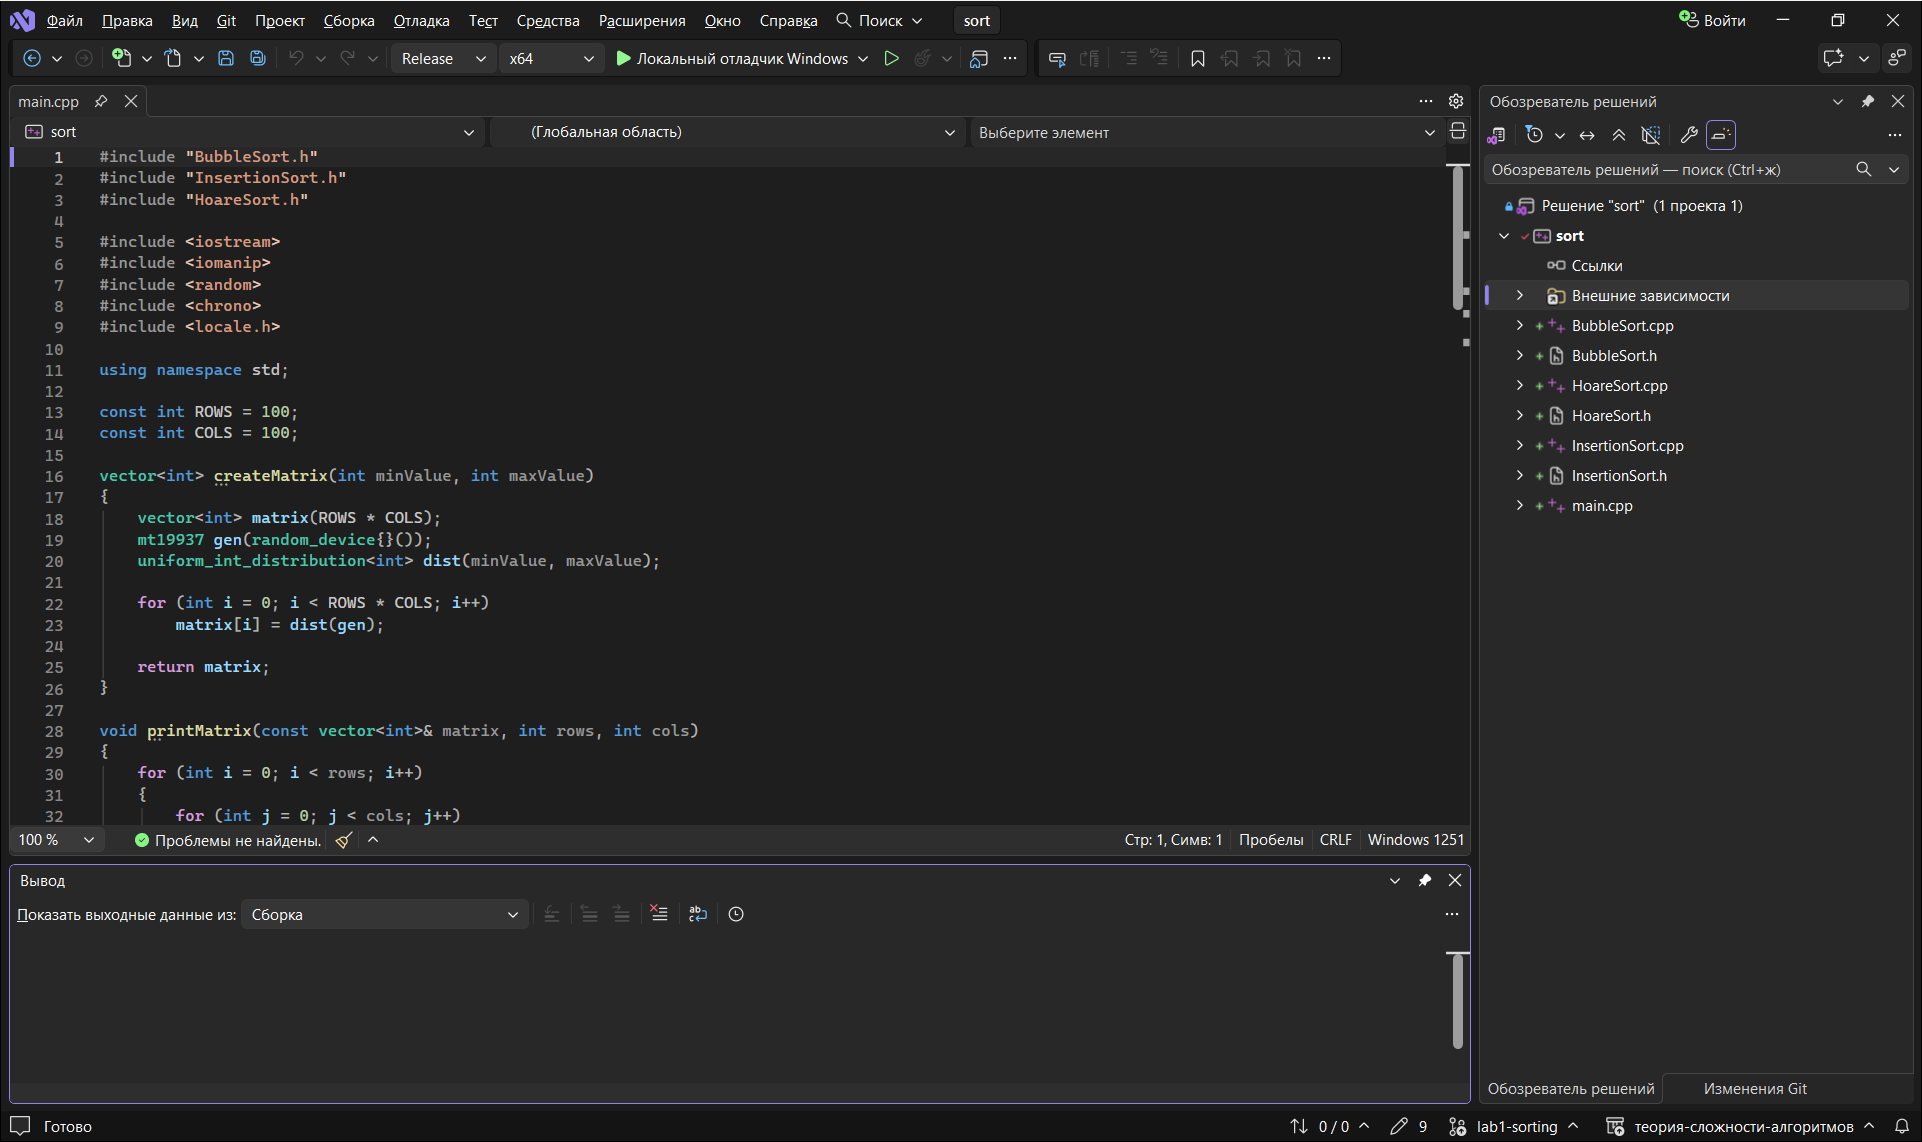
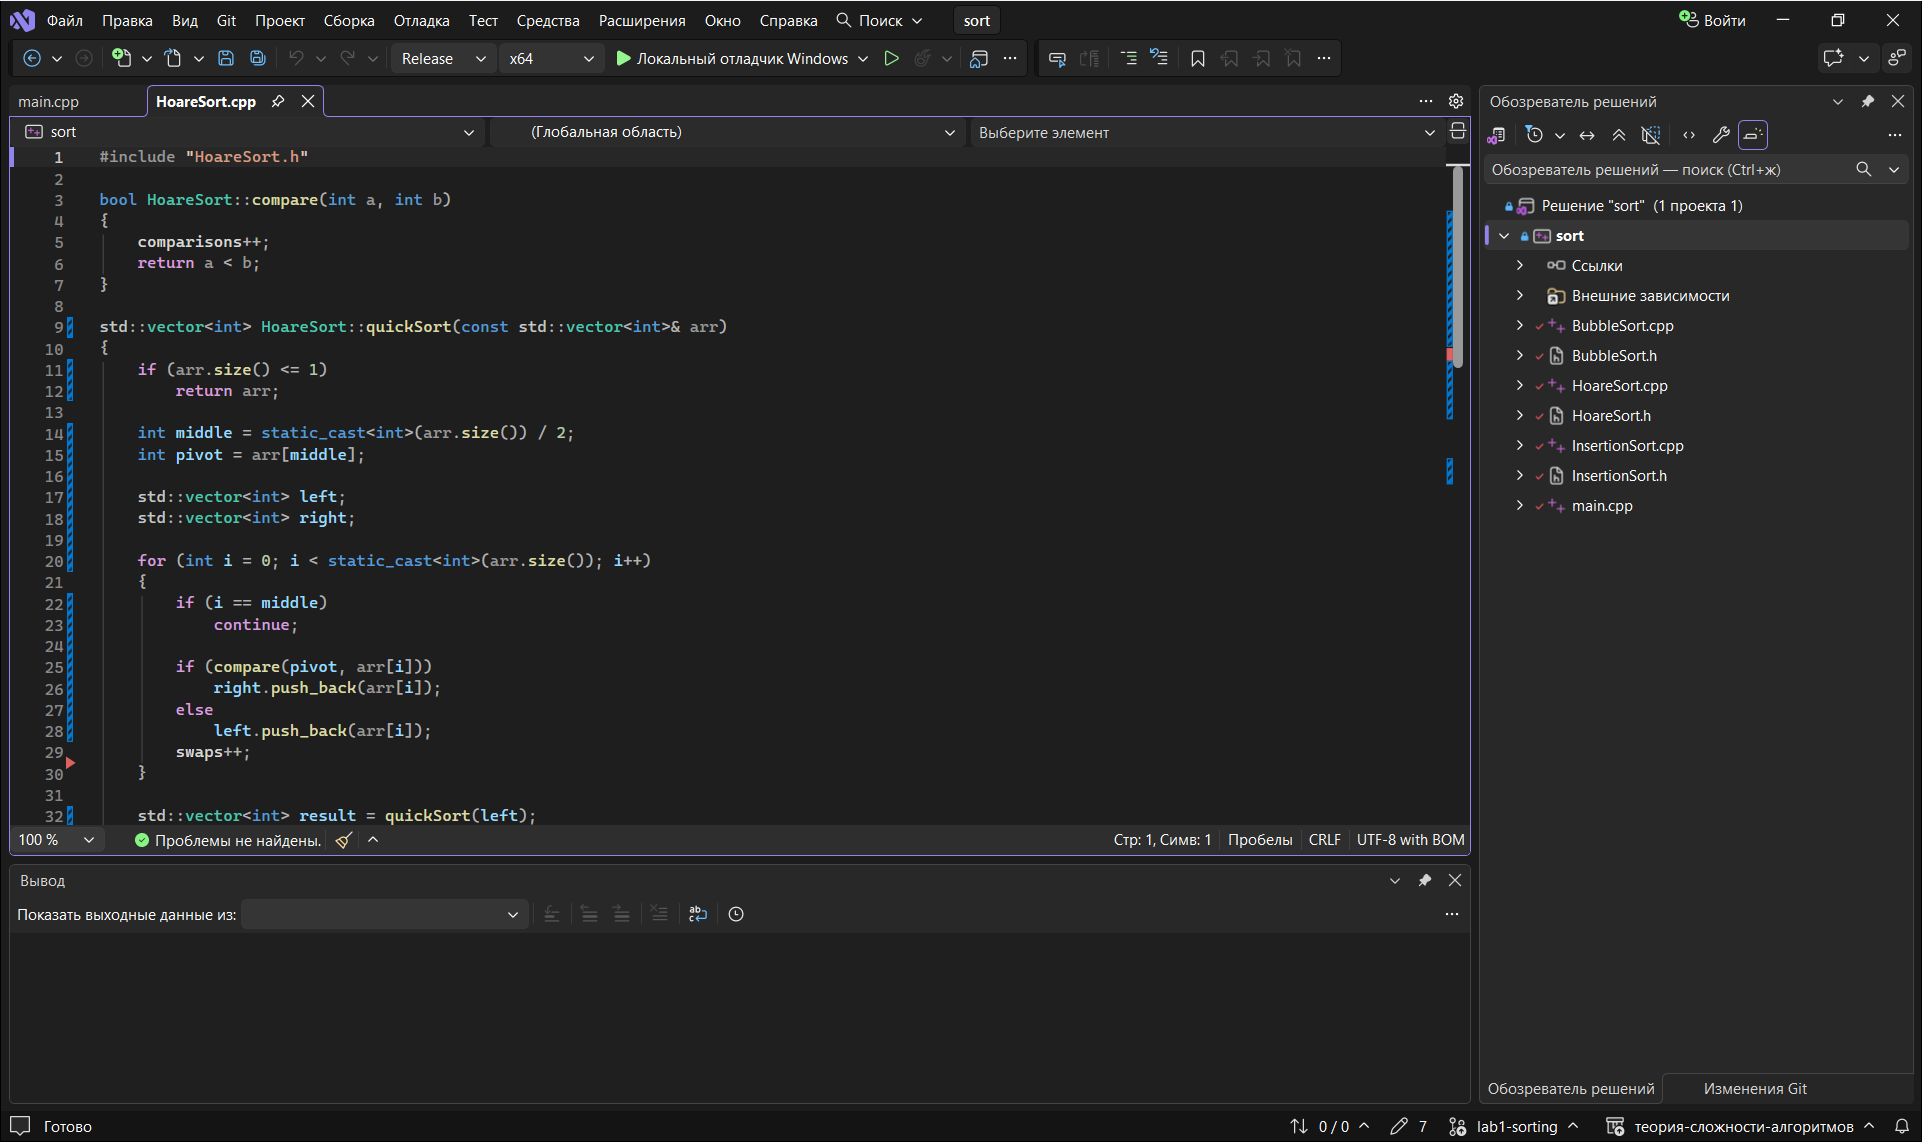
fix hoare and insertion

diff --git a/lab1/HoareSort.cpp b/lab1/HoareSort.cpp
@@ -6,33 +6,37 @@ bool HoareSort::compare(int a, int b)
     return a < b;
 }
 
-void HoareSort::quickSort(std::vector<int>& arr, int left, int right)
+std::vector<int> HoareSort::quickSort(const std::vector<int>& arr)
 {
-    int i = left;
-    int j = right;
-    int pivot = arr[(left + right) / 2];
+    if (arr.size() <= 1)
+        return arr;
 
-    while (i <= j)
+    int middle = static_cast<int>(arr.size()) / 2;
+    int pivot = arr[middle];
+
+    std::vector<int> left;
+    std::vector<int> right;
+
+    for (int i = 0; i < static_cast<int>(arr.size()); i++)
     {
-        while (compare(arr[i], pivot))
-            i++;
-        while (compare(pivot, arr[j]))
-            j--;
-        if (i <= j)
-        {
-            int t = arr[i];
-            arr[i] = arr[j];
-            arr[j] = t;
-            swaps++;
-            i++;
-            j--;
-        }
+        if (i == middle)
+            continue;
+
+        if (compare(pivot, arr[i]))
+            right.push_back(arr[i]);
+        else
+            left.push_back(arr[i]);
+        swaps++;
     }
 
-    if (left < j)
-        quickSort(arr, left, j);
-    if (i < right)
-        quickSort(arr, i, right);
+    std::vector<int> result = quickSort(left);
+    std::vector<int> rightSorted = quickSort(right);
+
+    result.push_back(pivot);
+    for (int i = 0; i < static_cast<int>(rightSorted.size()); i++)
+        result.push_back(rightSorted[i]);
+
+    return result;
 }
 
 std::string HoareSort::getName() const
@@ -40,10 +44,9 @@ std::string HoareSort::getName() const
     return "Хоара";
 }
 
-void HoareSort::sort(std::vector<int>& arr)
+std::vector<int> HoareSort::sort(const std::vector<int>& arr)
 {
-    if (arr.size() > 1)
-        quickSort(arr, 0, static_cast<int>(arr.size()) - 1);
+    return quickSort(arr);
 }
 
 long long HoareSort::getComparisons() const

diff --git a/lab1/InsertionSort.cpp b/lab1/InsertionSort.cpp
@@ -6,26 +6,40 @@ bool InsertionSort::compare(int a, int b)
     return a < b;
 }
 
+int InsertionSort::findPlace(const std::vector<int>& sorted, int value)
+{
+    int low = 0;
+    int high = static_cast<int>(sorted.size()) - 1;
+
+    while (low <= high)
+    {
+        int mid = (low + high) / 2;
+        if (compare(value, sorted[mid]))
+            high = mid - 1;
+        else
+            low = mid + 1;
+    }
+
+    return low;
+}
+
 std::string InsertionSort::getName() const
 {
     return "Вставка";
 }
 
-void InsertionSort::sort(std::vector<int>& arr)
+std::vector<int> InsertionSort::sort(const std::vector<int>& arr)
 {
-    int n = static_cast<int>(arr.size());
-    for (int i = 1; i < n; i++)
+    std::vector<int> sorted;
+
+    for (int i = 0; i < static_cast<int>(arr.size()); i++)
     {
-        int key = arr[i];
-        int j = i - 1;
-        while (j >= 0 && compare(key, arr[j]))
-        {
-            arr[j + 1] = arr[j];
-            swaps++;
-            j--;
-        }
-        arr[j + 1] = key;
+        int place = findPlace(sorted, arr[i]);
+        swaps += static_cast<int>(sorted.size()) - place;
+        sorted.insert(sorted.begin() + place, arr[i]);
     }
+
+    return sorted;
 }
 
 long long InsertionSort::getComparisons() const

diff --git a/lab1/HoareSort.h b/lab1/HoareSort.h
@@ -1,4 +1,4 @@
-#ifndef HOARESORT_H
+#ifndef HOARESORT_H
 #define HOARESORT_H
 
 #include <vector>
@@ -10,11 +10,11 @@ private:
     long long comparisons = 0;
     long long swaps = 0;
     bool compare(int a, int b);
-    void quickSort(std::vector<int>& arr, int left, int right);
+    std::vector<int> quickSort(const std::vector<int>& arr);
 
 public:
     std::string getName() const;
-    void sort(std::vector<int>& arr);
+    std::vector<int> sort(const std::vector<int>& arr);
     long long getComparisons() const;
     long long getSwaps() const;
     void resetStats();

diff --git a/lab1/InsertionSort.h b/lab1/InsertionSort.h
@@ -1,4 +1,4 @@
-#ifndef INSERTIONSORT_H
+#ifndef INSERTIONSORT_H
 #define INSERTIONSORT_H
 
 #include <vector>
@@ -10,10 +10,11 @@ private:
     long long comparisons = 0;
     long long swaps = 0;
     bool compare(int a, int b);
+    int findPlace(const std::vector<int>& sorted, int value);
 
 public:
     std::string getName() const;
-    void sort(std::vector<int>& arr);
+    std::vector<int> sort(const std::vector<int>& arr);
     long long getComparisons() const;
     long long getSwaps() const;
     void resetStats();

diff --git a/lab1/BubbleSort.cpp b/lab1/BubbleSort.cpp
@@ -11,8 +11,9 @@ std::string BubbleSort::getName() const
     return "Обычный (пузырёк)";
 }
 
-void BubbleSort::sort(std::vector<int>& arr)
+std::vector<int> BubbleSort::sort(const std::vector<int>& source)
 {
+    std::vector<int> arr = source;
     int n = static_cast<int>(arr.size());
     for (int i = 0; i < n - 1; i++)
     {
@@ -31,6 +32,7 @@ void BubbleSort::sort(std::vector<int>& arr)
         if (!changed)
             break;
     }
+    return arr;
 }
 
 long long BubbleSort::getComparisons() const

diff --git a/lab1/main.cpp b/lab1/main.cpp
@@ -47,11 +47,10 @@ bool checkSorted(const vector<int>& arr)
 template <typename T>
 double test(T& sorter, const vector<int>& matrix)
 {
-    vector<int> arr = matrix;
     sorter.resetStats();
 
     auto start = chrono::high_resolution_clock::now();
-    sorter.sort(arr);
+    vector<int> arr = sorter.sort(matrix);
     auto end = chrono::high_resolution_clock::now();
     double ms = chrono::duration<double, milli>(end - start).count();
 

diff --git a/lab1/BubbleSort.h b/lab1/BubbleSort.h
@@ -1,4 +1,4 @@
-#ifndef BUBBLESORT_H
+#ifndef BUBBLESORT_H
 #define BUBBLESORT_H
 
 #include <vector>
@@ -13,7 +13,7 @@ private:
 
 public:
     std::string getName() const;
-    void sort(std::vector<int>& arr);
+    std::vector<int> sort(const std::vector<int>& arr);
     long long getComparisons() const;
     long long getSwaps() const;
     void resetStats();

diff --git a/README.md b/README.md
@@ -8,8 +8,8 @@
 
 | Метод | Сравнения | Перестановки | Время, мс |
 |---|---|---|---|
-| Обычный (пузырёк) | 49990629 | 24976831 | 109.061 |
-| Вставка | 24986828 | 24976831 | 27.434 |
-| Хоара | 163196 | 43375 | 0.506 |
+| Обычный (пузырёк) | 49982280 | 25056381 | 207.856 |
+| Вставка | 119008 | 25056381 | 3.258 |
+| Хоара | 342011 | 342011 | 10.726 |
 
-Быстрее всех метод Хоара: O(n log n) против O(n²) у пузырька и вставки.
+Быстрее всех вставка: место ищется половинным делением, поэтому сравнений меньше всего. Хоара тратит время на создание новых массивов на каждом шаге рекурсии. Пузырёк самый медленный.
